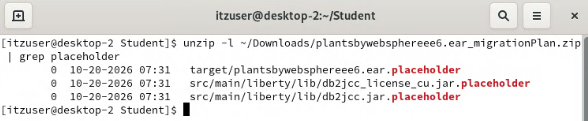
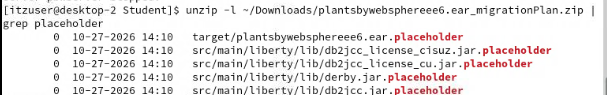
Update

diff --git a/README.md b/README.md
@@ -437,7 +437,7 @@ In this section, extract the migration plan that you downloaded. Then, copy the 
     ![](./images/media/migrationplan_content.png)
  
 
-3.	Copy the PlantsByWebSPhere application binary file into the `apps` location in Liberty
+3.	Copy the PlantsByWebSphere application binary file into the `apps` location in Liberty
 
         cp ~/Student/plantsbywebsphereee6.ear ~/Student/wlp/usr/servers/pbwserver/apps
 
@@ -472,7 +472,7 @@ In this section, extract the migration plan that you downloaded. Then, copy the 
         sed -i 's/jpa-2.1/jpa-2.0/g' /home/itzuser/Student/wlp/usr/servers/pbwserver/server.xml
     
 
-9. Install the missing Liberty features reequired to run the application
+9. Install the missing Liberty features required to run the application
 
         ~/Student/wlp/bin/featureUtility installServerFeatures pbwserver
 
@@ -553,7 +553,7 @@ The **server.xml** file defines a set of **`features`** that the application req
       ![sensitive config data](./images/media/image42.png)
 
 
-2.  The reason that the **PlantsByWebSphere** application returned an “Exception” is because the values for the **sensitive variables** has not been set - neither in the server.xml nor in the environment. 
+2.  The reason that the **PlantsByWebSphere** application returned an “Exception” is because the values for the **sensitive variables** have not been set - neither in the server.xml nor in the environment. 
   
     ![](./images/media/image43.png)
 
@@ -593,7 +593,11 @@ The **server.xml** file defines a set of **`features`** that the application req
 
     http://localhost:9080/PlantsByWebSphere
 
-    Before we can fully test the application, we need to initialize the database.
+    If you would now attempt to click on any of the tabs: “Flowers”, Fruits & Vegetables”, or “Trees”, you would see that the error has gone but you would see another error like this as the database has not been initialized yet..
+
+    ![PBW Error not init](./images/media/pbw_dB_not_initialized.png)
+    
+    Therefore before we can fully test the application, we need to initialize the database.
 
     a. Click on Help to get the help panel
 
